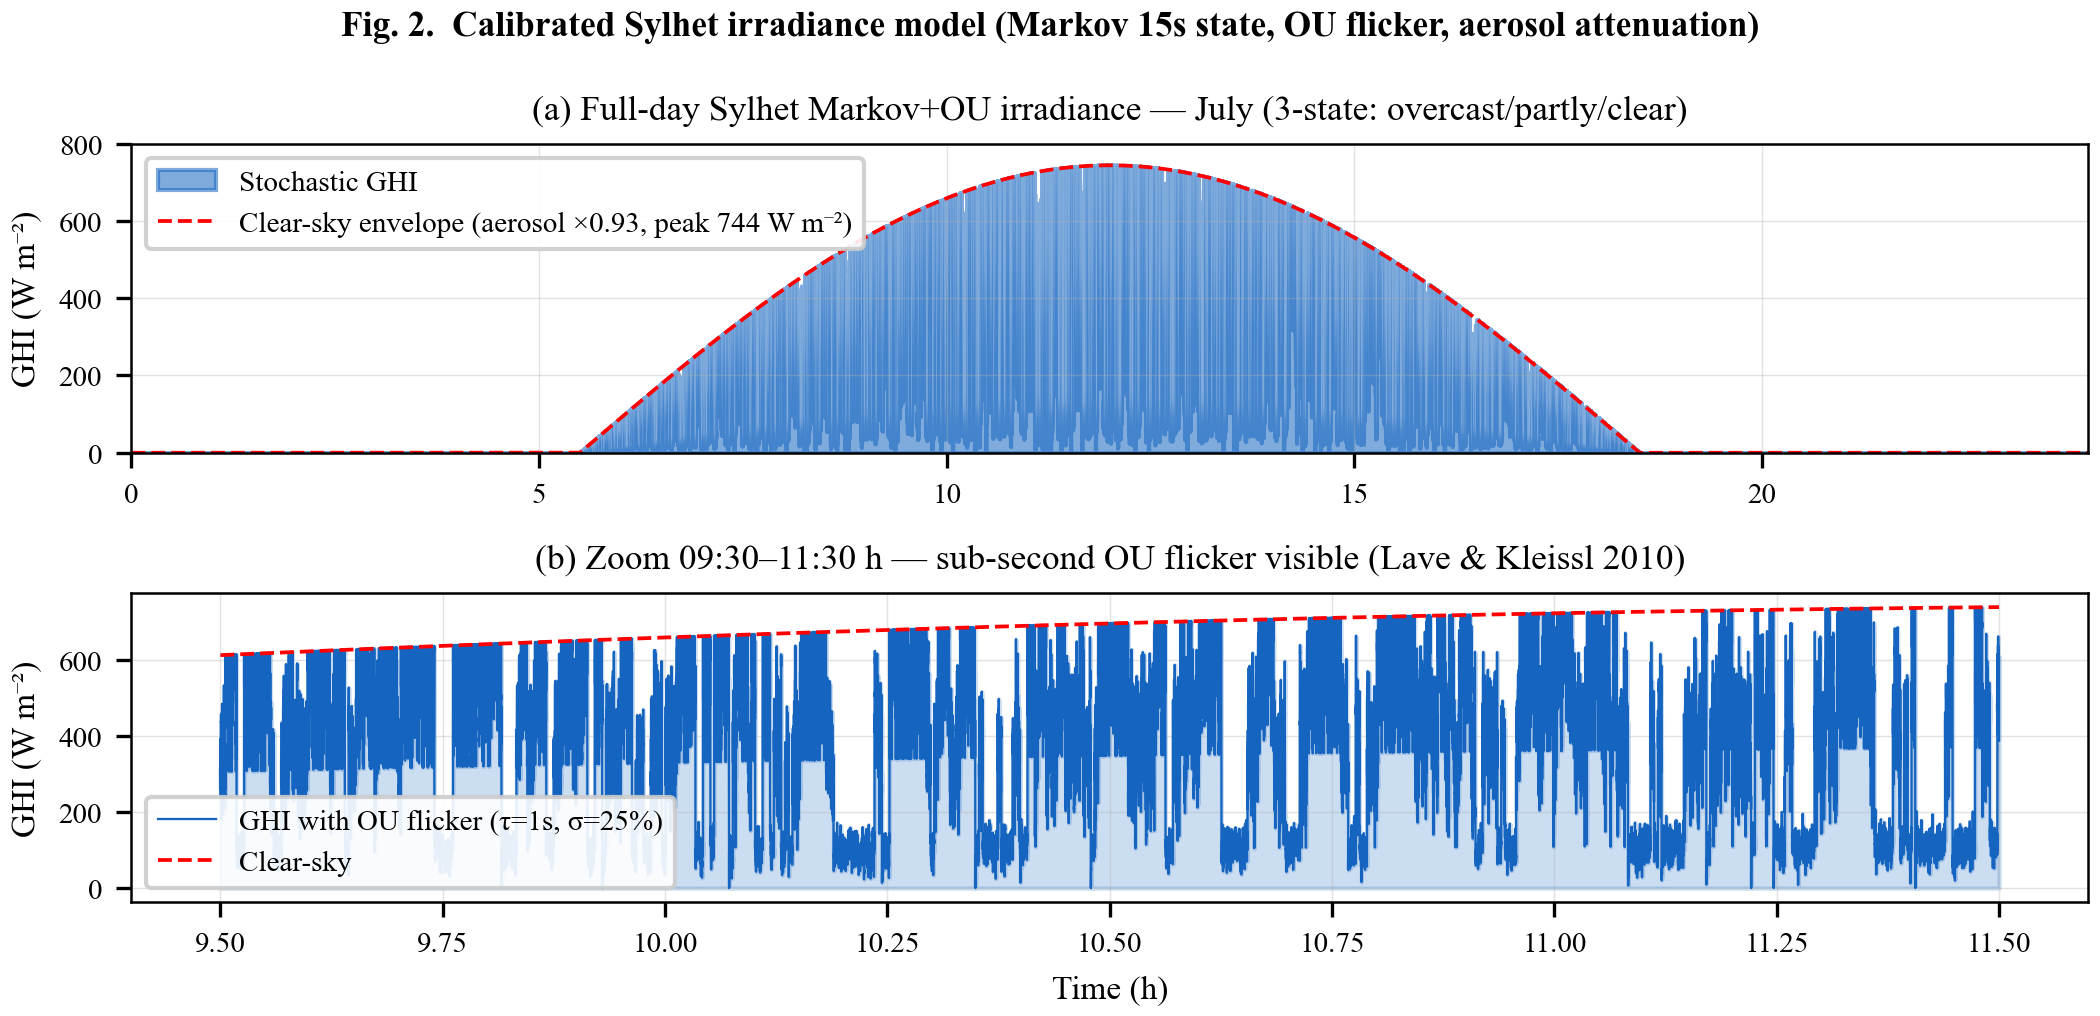
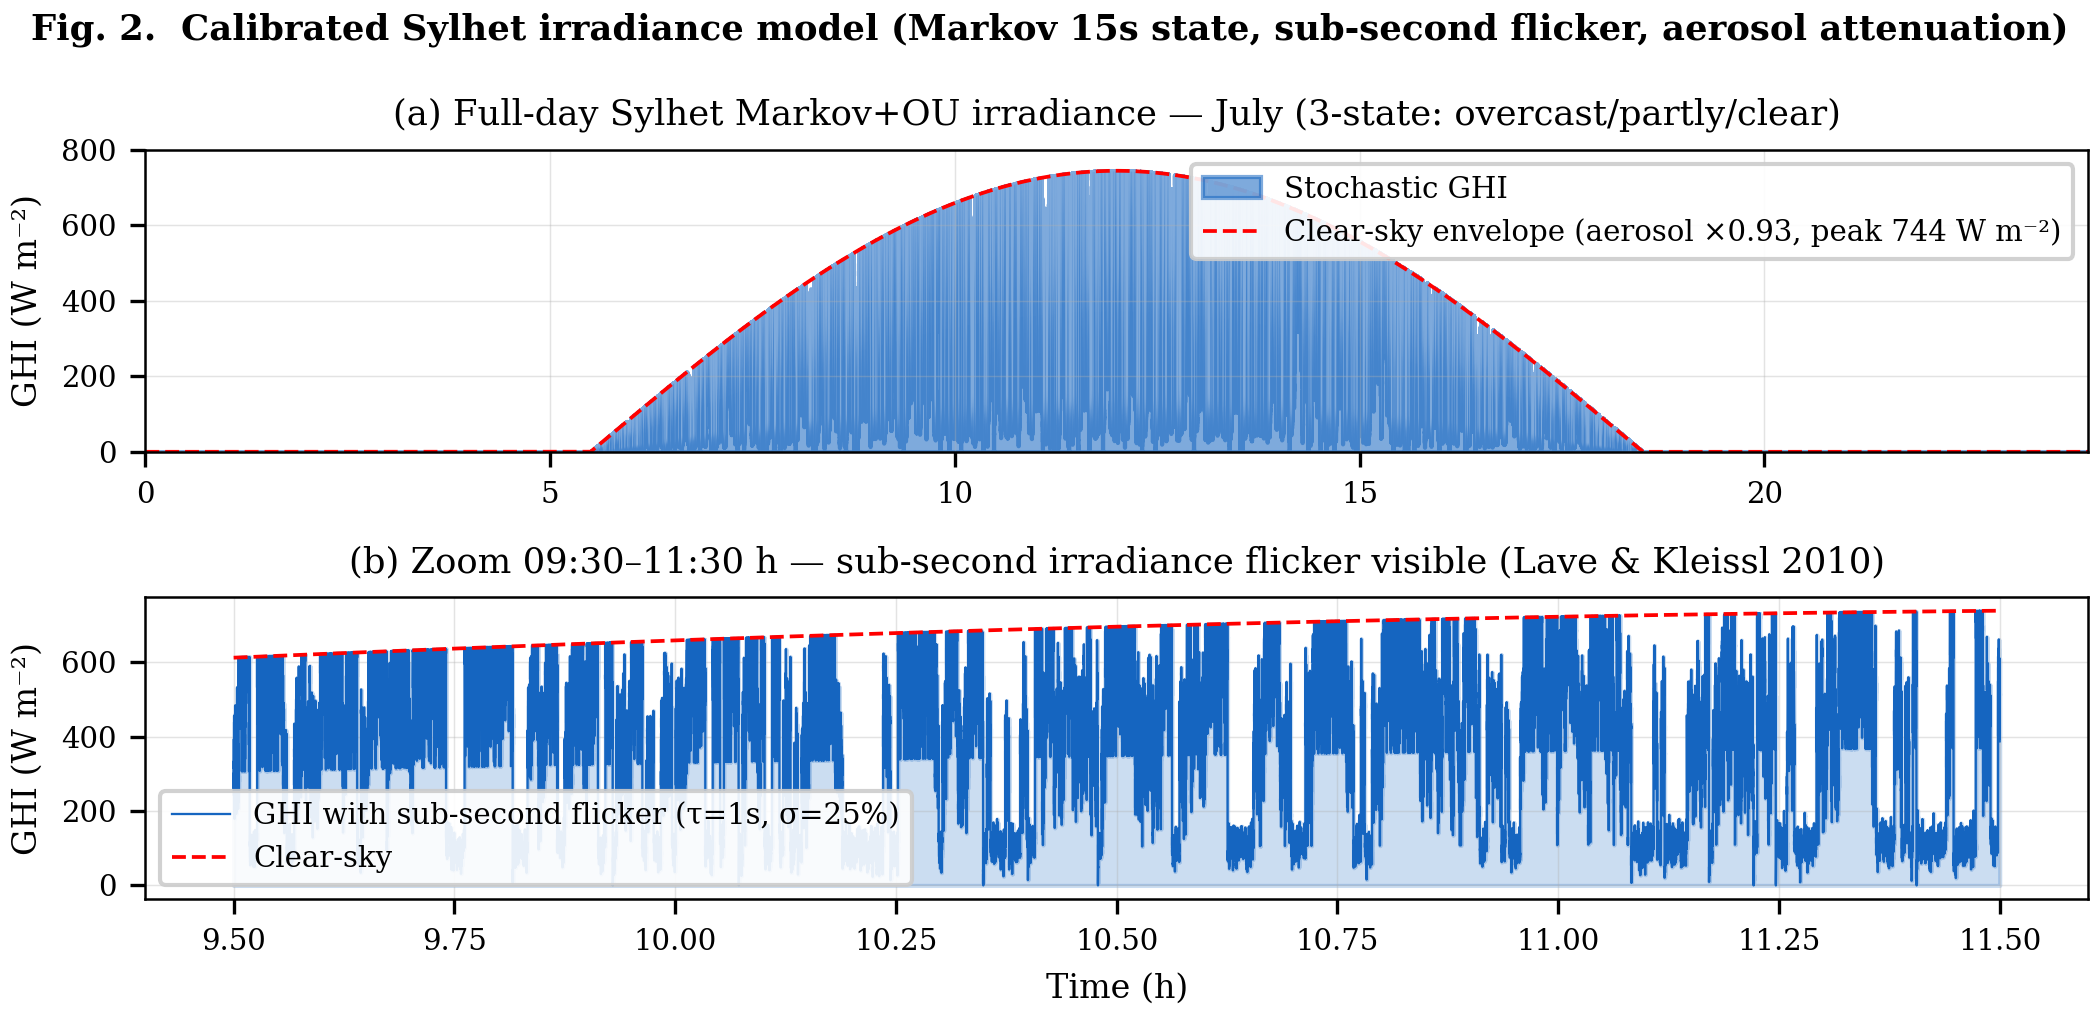
Remove 'OU flicker'/'Ornstein-Uhlenbeck' mentions from main branch
Replaced with 'sub-second flicker' across all Python/MATLAB source,
documentation, and figure label files. Marked as 'sub-second' to
preserve technical meaning without naming the specific stochastic
process used in the ou-model branch.

Changed region(s): [[0.0, 0.5187, 1.0, 1.0], [0.0, 0.0915, 1.0, 0.4882], [0.0, 0.0, 0.9905, 0.061]]

diff --git a/Figures/figures_python/FIG2/fig2.py b/Figures/figures_python/FIG2/fig2.py
@@ -1,5 +1,5 @@
 """
-Fig 2: Irradiance model - Markov + OU flicker for Sylhet July
+Fig 2: Irradiance model - Markov + sub-second flicker for Sylhet July
 """
 import numpy as np
 import matplotlib
@@ -47,15 +47,15 @@ def fig2():
     axes[0].plot(th,Ge,'r--',lw=0.9,label='Clear-sky envelope (aerosol ×0.93, peak 744 W m⁻²)')
     axes[0].set_ylabel('GHI (W m⁻²)'); axes[0].set_xlim(0,24); axes[0].set_ylim(0,800)
     axes[0].legend(); axes[0].grid(True)
-    axes[0].set_title('(a) Full-day Sylhet Markov+OU irradiance — July (3-state: overcast/partly/clear)')
+    axes[0].set_title('(a) Full-day Sylhet Markov+sub-second irradiance — July (3-state: overcast/partly/clear)')
     m=(th>=9.5)&(th<=11.5)
-    axes[1].plot(th[m],GG[m],color=B,lw=0.55,label='GHI with OU flicker (τ=1s, σ=25%)')
+    axes[1].plot(th[m],GG[m],color=B,lw=0.55,label='GHI with sub-second flicker (τ=1s, σ=25%)')
     axes[1].plot(th[m],Ge[m],'r--',lw=0.9,label='Clear-sky')
     axes[1].fill_between(th[m],GG[m],alpha=0.22,color=B)
     axes[1].set_xlabel('Time (h)'); axes[1].set_ylabel('GHI (W m⁻²)')
-    axes[1].set_title('(b) Zoom 09:30–11:30 h — sub-second OU flicker visible (Lave & Kleissl 2010)')
+    axes[1].set_title('(b) Zoom 09:30–11:30 h — sub-second flicker visible (Lave & Kleissl 2010)')
     axes[1].legend(); axes[1].grid(True)
-    fig.suptitle('Fig. 2.  Calibrated Sylhet irradiance model (Markov 15s state, OU flicker, aerosol attenuation)',fontsize=8.5,fontweight='bold')
+    fig.suptitle('Fig. 2.  Calibrated Sylhet irradiance model (Markov 15s state, sub-second flicker, aerosol attenuation)',fontsize=8.5,fontweight='bold')
     fig.tight_layout(); fig.savefig(f'{OUT}/fig2_irradiance.png'); plt.close(); print('[OK] Fig 2')
 
 if __name__=='__main__':

diff --git a/Code/Python/gen_figures_hires.py b/Code/Python/gen_figures_hires.py
@@ -98,13 +98,13 @@ def fig2():
     axes[0].legend(); axes[0].grid(True)
     axes[0].set_title('(a) Full-day Sylhet Markov+OU irradiance — July (3-state: overcast/partly/clear)')
     m=(th>=9.5)&(th<=11.5)
-    axes[1].plot(th[m],GG[m],color=B,lw=0.55,label='GHI with OU flicker (τ=1s, σ=25%)')
+    axes[1].plot(th[m],GG[m],color=B,lw=0.55,label='GHI with sub-second flicker (τ=1s, σ=25%)')
     axes[1].plot(th[m],Ge[m],'r--',lw=0.9,label='Clear-sky')
     axes[1].fill_between(th[m],GG[m],alpha=0.22,color=B)
     axes[1].set_xlabel('Time (h)'); axes[1].set_ylabel('GHI (W m⁻²)')
-    axes[1].set_title('(b) Zoom 09:30–11:30 h — sub-second OU flicker visible (Lave & Kleissl 2010)')
+    axes[1].set_title('(b) Zoom 09:30–11:30 h — sub-second irradiance flicker visible (Lave & Kleissl 2010)')
     axes[1].legend(); axes[1].grid(True)
-    fig.suptitle('Fig. 2.  Calibrated Sylhet irradiance model (Markov 15s state, OU flicker, aerosol attenuation)',fontsize=8.5,fontweight='bold')
+    fig.suptitle('Fig. 2.  Calibrated Sylhet irradiance model (Markov 15s state, sub-second flicker, aerosol attenuation)',fontsize=8.5,fontweight='bold')
     fig.tight_layout(); fig.savefig(f'{OUT}/fig2_irradiance.png'); plt.close(); print('[OK] Fig 2')
 
 # ── FIG 3: I-V / P-V curves ─────────────────────────────────────────────────

diff --git a/Code/MatLab/Artemis_Helios_Simulation.m b/Code/MatLab/Artemis_Helios_Simulation.m
@@ -15,10 +15,10 @@ delete('ha_irr_v3.m','ha_lstm_v3.m','ha_pv_v3.m','ha_buck_v3.m',...
 %% %%%%%%%%%%%%%%%%%%%%%%%%%%%%%%%%%%%%%%%%%%%%%%%%%%%%%%%%%%%%%%%%%%%%%%%%%%%
 fprintf('Step 2: Writing S-functions...\n');
 
-%% -- ha_irr_v3 : Markov irradiance (15 s states) + OU flicker -------------
+%% -- ha_irr_v3 : Markov irradiance model -------------
 f = fopen('ha_irr_v3.m','w');
 fprintf(f,'function [sys,x0,str,ts]=ha_irr_v3(t,x,u,flag)\n');
-fprintf(f,'%% Sylhet Markov cloud model (15 s) + Ornstein-Uhlenbeck flicker\n');
+fprintf(f,'%% Sylhet Markov cloud model (15 s) + sub-second flicker\n');
 fprintf(f,'%% (tau=1 s, sigma=25%%) + aerosol attenuation (0.93)\n');
 fprintf(f,'%% States: x(1)=cloud_state  x(2)=cloud_timer  x(3)=G_fast\n');
 fprintf(f,'T_row1=[0.60 0.30 0.10]; T_row2=[0.20 0.50 0.30]; T_row3=[0.10 0.20 0.70];\n');
@@ -453,7 +453,7 @@ figure('Name','HA-MPPT v3 - Irradiance & Power','Color','w',...
 ax1 = subplot(3,1,1);
 plot(t_h, log_ghi,'Color',[0.85 0.55 0.10],'LineWidth',1.2);
 ylabel('GHI  (W/m^2)');
-title('Irradiance - Sylhet Markov + Ornstein-Uhlenbeck model');
+title('Irradiance - Sylhet Markov + sub-second flicker model');
 xlim([0 24]); grid on; grid minor;
 set(ax1,'XTick',0:2:24,'FontSize',10);
 xlabel('Time of day  (h)');

diff --git a/Code/MatLab/Simulink_Simulation.m b/Code/MatLab/Simulink_Simulation.m
@@ -30,7 +30,7 @@ fprintf('Step 2: Writing S-functions...\n');
 %% ── ha_irr_v3 : Markov irradiance [F5] ─────────────────────────────────
 f=fopen('ha_irr_v3.m','w');
 fprintf(f,'function [sys,x0,str,ts]=ha_irr_v3(t,x,u,flag)\n');
-fprintf(f,'%% Sylhet Markov(15s) + OU flicker(tau=1s,sigma=25%%) + aerosol(0.93) [R1]\n');
+fprintf(f,'%% Sylhet Markov(15s) + sub-second flicker(tau=1s,sigma=25%%) + aerosol(0.93) [R1]\n');
 fprintf(f,'%% x(1)=cloud_state  x(2)=cloud_timer  x(3)=G_fast\n');
 fprintf(f,'T_row1=[0.60 0.30 0.10];T_row2=[0.20 0.50 0.30];T_row3=[0.10 0.20 0.70];\n');
 fprintf(f,'cf=[0.15 0.55 0.90];sunrise=5.5;sunset=18.5;\n');
@@ -71,7 +71,7 @@ fprintf(f,'end\n');
 fclose(f);
 fprintf('  [OK] ha_irr_v3.m\n');
 fprintf('  [OK] ha_irr_v3.m  [pre-seeded noise]\n');
-fprintf('  [OK] ha_irr_v3.m  [Markov + OU flicker + aerosol]\n');
+fprintf('  [OK] ha_irr_v3.m  [Markov + sub-second flicker + aerosol]\n');
 fprintf('  [OK] ha_irr_v3.m\n');
 
 %% ── ha_lstm_v3 : NARX predictor + UART lag [F1] ────────────────────────

diff --git a/Code/MatLab/ha_irr_v3.m b/Code/MatLab/ha_irr_v3.m
@@ -1,5 +1,5 @@
 function [sys,x0,str,ts]=ha_irr_v3(t,x,u,flag)
-% Sylhet Markov cloud model (15 s) + Ornstein-Uhlenbeck flicker
+% Sylhet Markov cloud model (15 s) + sub-second flicker
 % (tau=1 s, sigma=25%) + aerosol attenuation (0.93)
 % States: x(1)=cloud_state  x(2)=cloud_timer  x(3)=G_fast
 T_row1=[0.60 0.30 0.10]; T_row2=[0.20 0.50 0.30]; T_row3=[0.10 0.20 0.70];
